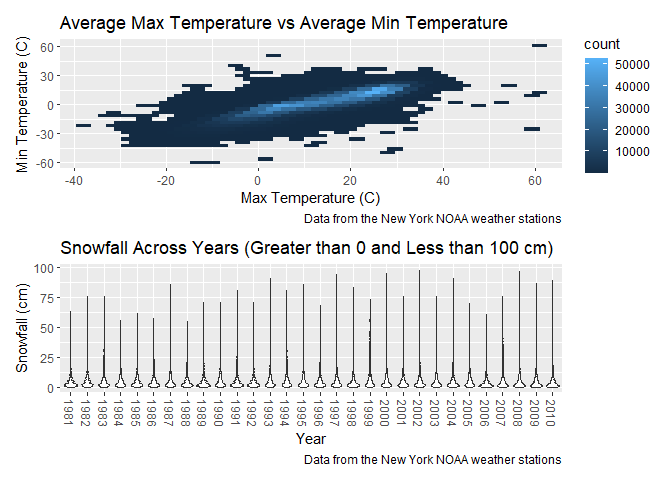
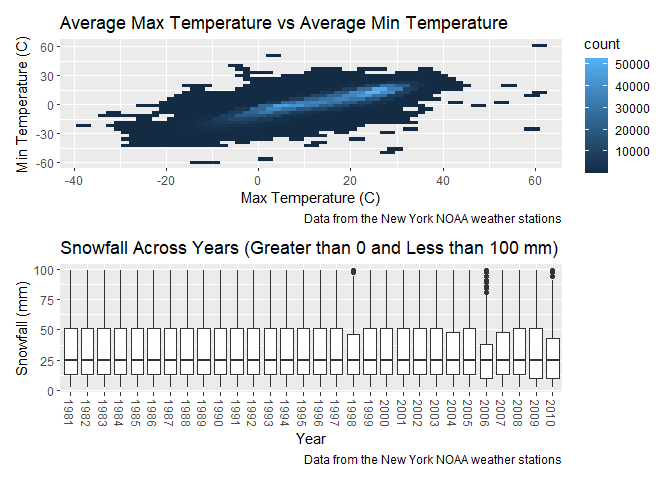
final edits and knit

diff --git a/p8105_hw3_ts3349.md b/p8105_hw3_ts3349.md
@@ -123,16 +123,6 @@ instacart %>%
 
 ## Problem 2
 
-Load, tidy, and otherwise wrangle the data. Your final dataset should
-include all originally observed variables and values; have useful
-variable names; include a weekday vs weekend variable; and encode data
-with reasonable variable classes. Describe the resulting dataset
-(e.g. what variables exist, how many observations, etc).
-
-Bullet 1: need to pivot longer with activity variables (activity count
-and minute of the day) mutate to add weekend vs weekday make numeric
-things numeric and make order make sense\!
-
 ``` r
 activity_df <- read_csv("./data/accel_data.csv") %>%
   janitor::clean_names() %>%
@@ -181,16 +171,6 @@ was a weekday or weekend day), day(Sunday-Saturday), day\_id(1-35),
 minute\_of\_day, and activity\_count. There are a total of 50400 rows in
 the final data set. The median number for activity\_count for example is
 74.
-
-Traditional analyses of accelerometer data focus on the total activity
-over the day. Using your tidied dataset, aggregate accross minutes to
-create a total activity variable for each day, and create a table
-showing these totals. Are any trends apparent?
-
-Bullet 2: aggregate something to create total (group by and summarize-
-week, day or id or something, aggregate using mean or sum or something).
-end up with 35 days in table, need to arrange table columns (week number
-day of the week). understand whats going on in the table
 
 ``` r
 activity_table_df <- activity_df %>% 
@@ -252,17 +232,6 @@ of the total activity count values seem to increase to around 400,000.
 Overtime, however, the values become more sporadic dipping to around
 150,000 and then increasing to as high as around 600,000.
 
-Bullet 3: ggplot, need to fix data (minute on x axis, activity count on
-y axis), want activity at eveyr minute of every day, geom\_line but dont
-use scatterplot, use color for day of the week (aes mapping), describe
-patterns in plot (which days less or more active, when are they
-asleep?). have 35 squiggly lines
-
-Accelerometer data allows the inspection activity over the course of the
-day. Make a single-panel plot that shows the 24-hour activity time
-courses for each day and use color to indicate day of the week. Describe
-in words any patterns or conclusions you can make based on this graph.
-
 ``` r
 activity_df  %>% 
   mutate(day = as.factor(day)) %>%
@@ -279,34 +248,20 @@ activity_df  %>%
 ```
 
 ![](p8105_hw3_ts3349_files/figure-gfm/problem%202%20bullet%203-1.png)<!-- -->
-Describe in words any patterns or conclusions you can make based on this
-graph. The first few hundred minutes of the day for all days of the week
-seem to have the lowest activity counts probably because the man is
-sleeping. For most days of the week the activity count seems to spike
-towards the end of the day around the 1250th minute of the day. Tuesdays
-through Thursdays seem to have some of the overall highest activity
-counts during the 450th minute and the 1200th minute of the day.
-Mondays’ activity count however typically peaks around the 750th
-minute of the day.
-
-Hints: day of the week columns will be in wrong order-use factor to fix
-check if minute of the day is numeric or not? do not want character
-variable
+The first few hundred minutes of the day for all days of the week seem
+to have the lowest activity counts probably because the man is sleeping.
+For most days of the week the activity count seems to spike towards the
+end of the day around the 1250th minute of the day. Tuesdays through
+Thursdays seem to have some of the overall highest activity counts
+during the 450th minute and the 1200th minute of the day. Mondays’
+activity count however typically peaks around the 750th minute of the
+day.
 
 ## Problem 3
 
 ``` r
 data("ny_noaa")
 ```
-
-Bullet 1: need to separate date to get three variables. do not need to
-convert month to name. change units on variables to something useful
-(want to round to integers?). need to count snowfall.
-
-Do some data cleaning. Create separate variables for year, month, and
-day. Ensure observations for temperature, precipitation, and snowfall
-are given in reasonable units. For snowfall, what are the most commonly
-observed values? Why?
 
 ``` r
 ny_noaa_df <- ny_noaa %>%
@@ -359,18 +314,6 @@ head(ny_noaa_snowfall)
 snow year round in New York. Most of the time it is not snowing. After
 NA (missing), the next most common snowfall amounts are 2.5cm and 1.3cm.
 
-Bullet 2: data manipulation followed by plotting. want january and july
-and avg max temp in each station across years group by (station, year,
-month) and then summarize, then filter by month (want january and july
-only). each station have avg max temp. plot those. avg max temp over
-years. many line stacked on each other. use facet for two panel plot.
-what structure appears? january hotter now? global warming happening?
-some stations always colder?
-
-Make a two-panel plot showing the average max temperature in January and
-in July in each station across years. Is there any observable /
-interpretable structure? Any outliers?
-
 ``` r
 noaa_jan_july_df <- ny_noaa_df  %>% 
   filter((month == 1) | (month == 7)) %>%
@@ -406,20 +349,8 @@ graphs seem to always be slightly higher or slightly lower overall than
 the others. In the graph for July there seems to be a station that is an
 outlier in the late 80s with a large dip in the average max temperature.
 In the year 2000 for January there seems to be a station with a much
-higher average max temperature than the others.
-
-Make a two-panel plot showing the average max temperature in January and
-in July in each station across years. Is there any observable /
-interpretable structure? Any outliers?
-
-Bullet 3: two distinct plots need to be joined via patchwork. 1st
-plot-contour or hex plot not scatterplot. 2nd plot-filter and then show
-distribution (boxplot, violin, ridge, etc)-one box for each year.
-
-Make a two-panel plot showing (i) tmax vs tmin for the full dataset
-(note that a scatterplot may not be the best option); and (ii) make a
-plot showing the distribution of snowfall values greater than 0 and less
-than 100 separately by year
+higher average max temperature than the others. The max temperatures in
+July are overall higher than the max temperatures in January.
 
 ``` r
 tmax_vs_tmin_plot <- ny_noaa_df %>%
@@ -433,13 +364,14 @@ tmax_vs_tmin_plot <- ny_noaa_df %>%
 
 
 snowfall_plot <- ny_noaa_df  %>% 
-  filter((snow_cm > 0) & (snow_cm < 100)) %>%
-  ggplot(aes(x = as.character(year), y = snow_cm)) + 
-  geom_violin() + 
+  mutate(snow = snow_cm *10) %>%
+  filter((snow > 0) & (snow < 100)) %>%
+  ggplot(aes(x = as.character(year), y = (snow))) + 
+  geom_boxplot() + 
   labs(
-    title = "Snowfall Across Years (Greater than 0 and Less than 100 cm)",
+    title = "Snowfall Across Years (Greater than 0 and Less than 100 mm)",
     x = "Year",
-    y = "Snowfall (cm)",
+    y = "Snowfall (mm)",
     caption = "Data from the New York NOAA weather stations")  +
   theme(axis.text.x = element_text(angle = 270, vjust = 0.5, hjust = 1))
 
@@ -449,3 +381,10 @@ tmax_vs_tmin_plot / snowfall_plot
     ## Warning: Removed 1136276 rows containing non-finite values (stat_binhex).
 
 ![](p8105_hw3_ts3349_files/figure-gfm/problem%203%20bullet%203-1.png)<!-- -->
+In the first graph the average max temperature and the average min
+temperature for many stations tend to be the same/similar. There are
+many stations that recorded an average max temperature of around 30 and
+an average minimum temperature of around 30. In the second graph, the
+distribution of snowfall for each year tends to be similar except for a
+few years. In 1998, 2006, and 2020 the 3rd quartiles are lower than the
+rest of the years.
